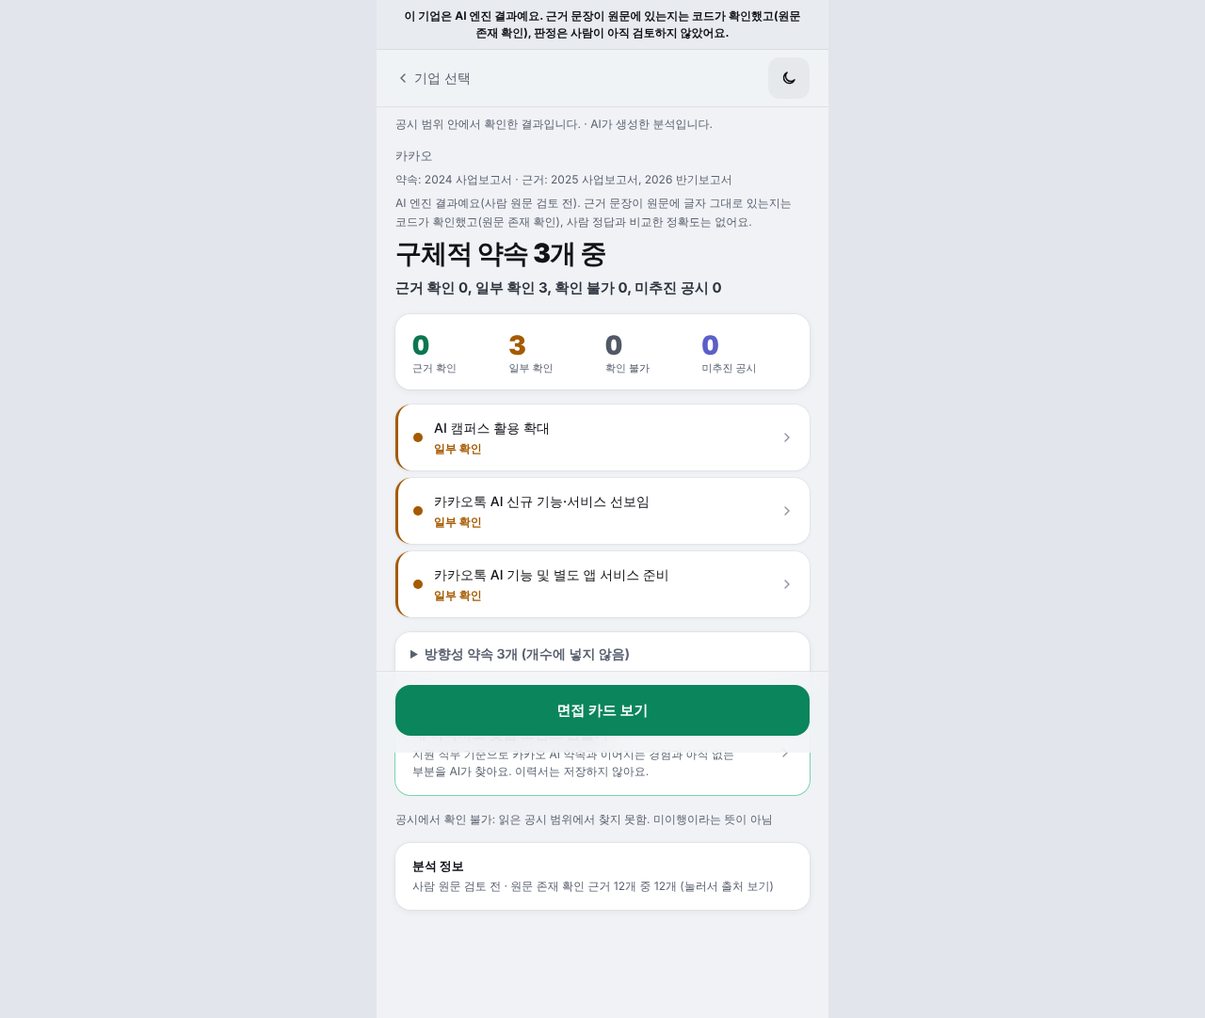
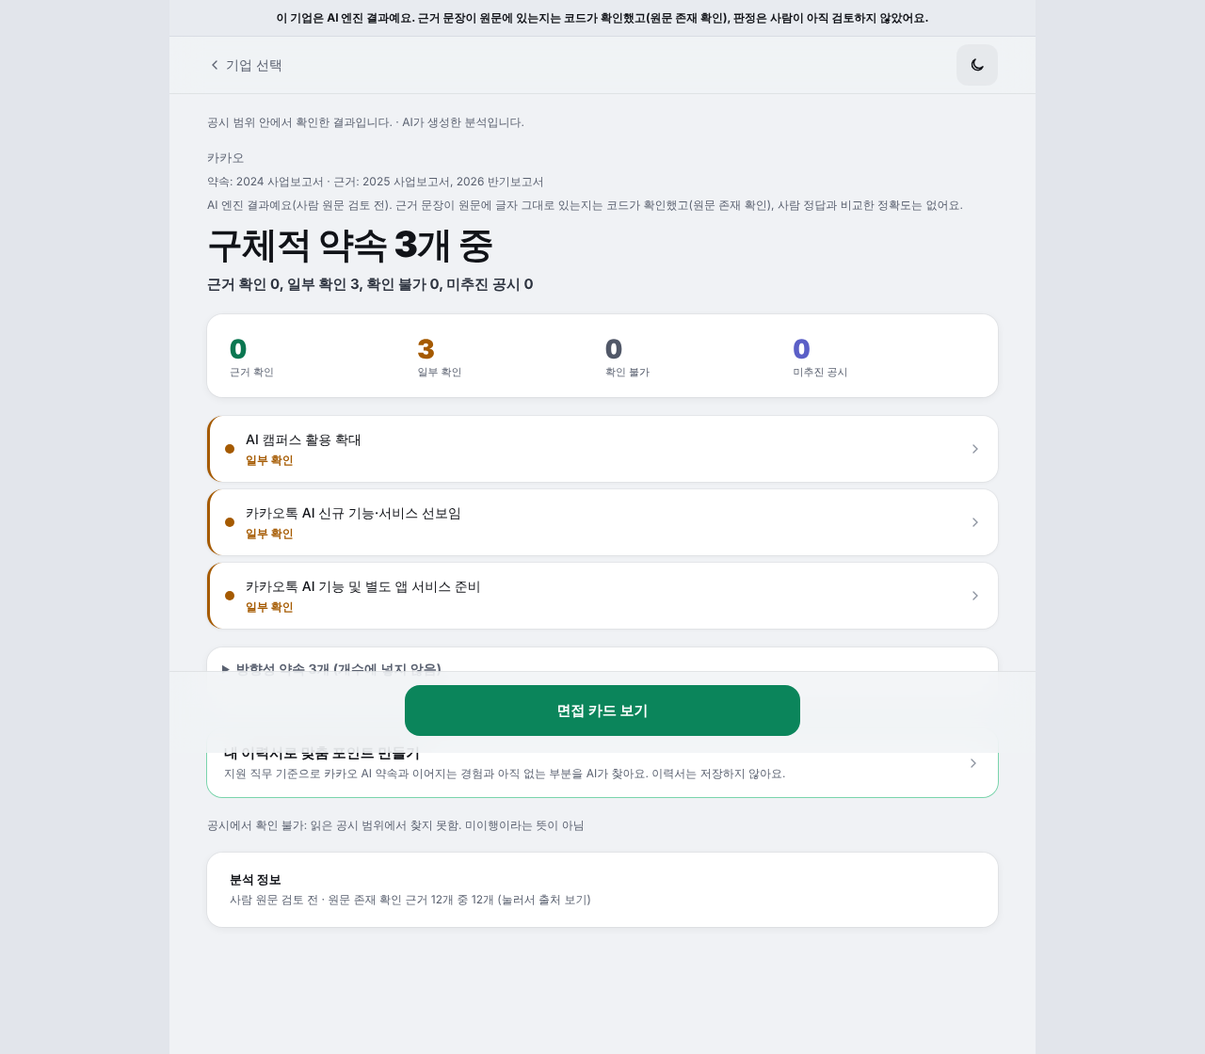
마지막 다듬기: PC 화면 넓게, README 한눈에 보기, 판정 설명·근거 점검, 발표 방향
- PC(1024px 이상)에서만 화면을 920px까지 넓히고 기업 목록을 두 줄로 (휴대폰 화면 6개는 바꾸기 전과 픽셀까지 같음)
- 사람 원문 검토 기업의 안내 문구를 "읽고 판정한"으로 통일
- README 맨 위: 한 문장 소개, 첫 화면 그림, 한눈에 보기, 결과 숫자, 작동 흐름, 심사용 읽는 순서, 문서 묶음
- 화면의 판정 15개 설명·근거 점검 기록 (docs/judgment-audit.md): 판정 이유 15/15, 근거 문장 원문 존재 확인 15/15,
  엔진의 "공시에서 확인 불가" 3개는 판정 모델이 받은 후보 문장까지 확인. 찾은 문제 1건(판정 이유의 내부 용어)은 후속 과제
- 예상 질문 Q13(검색 문제와 판정 문제 나누기), Q14(판정 이유 확인), 발표 방향(가장 강한 장면, 보여 줄 숫자, 남은 위험)
- PC 화면 캡처 다시 찍기 (docs/images/screens/)

Claude-Session: https://claude.ai/code/session_01BzNPn68M46ueTLKzppE7wq

diff --git a/팀/Final/app/css/style.css b/팀/Final/app/css/style.css
@@ -996,3 +996,26 @@ a.search-item:active { transform: scale(0.985); }
 .glossary-card > summary span { font-size: 13px; font-weight: 800; color: var(--text); }
 .glossary-card > summary small { font-size: 12px; line-height: 1.5; color: var(--sub); }
 .glossary-card[open] > summary { margin-bottom: 10px; }
+
+/* ---------- 20. PC 폭 (10/20): 1024px 이상에서만 넓게 써요. 휴대폰 화면(1023px 이하)은 그대로예요 ---------- */
+@media (min-width: 1024px) {
+  :root { --page-max: 920px; }
+  .sample-banner { padding: 10px 40px; }
+  .topbar { padding-left: 40px; padding-right: 40px; }
+  .content { padding: 20px 40px 48px; gap: 20px; }
+  .bottombar { padding-left: 40px; padding-right: 40px; }
+  .bottombar:not(.two) .btn { max-width: 420px; margin: 0 auto; }
+  .bottombar.two { grid-template-columns: repeat(2, minmax(0, 300px)); justify-content: center; }
+  .hero { padding-top: 28px; gap: 14px; }
+  .headline { font-size: 38px; }
+  .lead { font-size: 16px; max-width: 640px; }
+  .hero-stats { gap: 12px; }
+  .hero-stats > div { padding: 16px 18px; gap: 6px; }
+  .hero-stats strong { font-size: 28px; }
+  .hero-stats span { font-size: 12px; }
+  .company-list { display: grid; grid-template-columns: repeat(2, minmax(0, 1fr)); gap: 12px; }
+  .detail-title { font-size: 28px; }
+  .card:not(.pipeline-card) { padding: 20px 24px; }
+  .pipeline-card > summary { padding: 20px 24px; }
+  .pipeline-list { padding: 0 24px 10px; }
+}

diff --git a/팀/Final/docs/judgment-audit.md b/팀/Final/docs/judgment-audit.md
@@ -1,0 +1,66 @@
+# AI 판정 설명·근거 점검 (10/20)
+
+화면에 나온 판정 15개(구체적 약속)를 대상으로, 사용자가 판정 이유를 확인할 수 있는지와 근거가 DART 원문으로 이어지는지를 점검했습니다. 판정이 맞는지(정확도)를 사람이 다시 매긴 기록이 아닙니다. 사람이 원문을 읽고 판정을 확인한 것은 삼성전자·SK하이닉스 6개(사람 원문 검토 완료)이고, 카카오·현대자동차·신한지주 9개는 AI 엔진 결과(사람 원문 검토 전)입니다. 이 점검은 Claude가 결과 파일과 엔진 기록을 읽어 한 AI 보조 점검입니다.
+
+## 1. 화면에서 판정 이유를 확인하는 곳
+
+약속 상세 화면 하나가 "검증 카드" 역할을 합니다. 새 기능을 만들지 않고, 이미 있는 칸이 아래 질문에 모두 답하는지 확인했습니다.
+
+| 확인할 것 | 화면 위치 | 데이터 |
+| --- | --- | --- |
+| 기업이 무엇을 약속했나 | 01 "약속 · 2024 사업보고서": 원문 문장 그대로, 보고서·장·전자공시 쪽 | `promises[].sentence`, `source` |
+| 무엇이 실행 근거로 확인됐나 | 02 "근거 · 후속 공시": 근거 문장, "원문 존재 확인" 배지, 원문 보기 링크, 약속과 같은 말 형광 표시 | `evidence[]` |
+| 왜 이 판정인가 | 03 "판정": 판정 이름, 판정 뜻 한 줄, 판정 이유(확인된 부분과 확인되지 않은 부분) | `verdict`, `reason` |
+| 아직 실행 시기가 아닌가 | 약속한 시기가 근거를 찾은 범위(2026 반기보고서, 6월 말)보다 뒤면 "실행 시기 전" 안내 | 약속 문장의 시기 표현 (FB-03) |
+| 원문으로 직접 확인 | 화면 아래 DART 원문 버튼 2개(약속 보고서, 근거 보고서) | `source.url` |
+| 누가 확인했나 | 확인 4단계(처음에 접힘): 원문 존재 확인 N/M, 사람 원문 검토 완료/전 | 기업의 `data_mode` |
+
+## 2. 판정 15개 점검 결과
+
+| 기업 | 약속 | 판정 | 근거 문장 (원문 존재 확인 / DART 링크) | 판정 이유에 확인된 부분과 안 된 부분 | 검토 상태 |
+| --- | --- | --- | --- | --- | --- |
+| 삼성전자 | Galaxy AI 확장·고도화 및 다양한 폼팩터 적용 | 근거 확인 | 1개 (1/1, 1/1) | 약속 대상과 활동이 함께 확인된다고 적음 | 사람 원문 검토 완료 |
+| 삼성전자 | HBM4 개발·양산으로 AI 시장 경쟁력 강화 | 일부 확인 | 1개 (1/1, 1/1) | 있음 (HBM4 양산 출하 확인 / HBM3E 판매 확대 미확인) | 사람 원문 검토 완료 |
+| 삼성전자 | AI 서버용 고용량 DDR5·LPDDR5x 공급 확대 | 일부 확인 | 1개 (1/1, 1/1) | 있음 (고용량 제품 판매 확인 / 세부 용량·1b나노 확산 미확인) | 사람 원문 검토 완료 |
+| SK하이닉스 | SOCAMM·LPCAMM으로 AI 서버·PC 시장 대응 | 공시에서 확인 불가 | 없음 | 읽은 범위와 "미이행이라는 뜻이 아님"을 적음 | 사람 원문 검토 완료 |
+| SK하이닉스 | ZUFS 4.0 양산 및 온디바이스 AI 스마트폰 탑재 | 공시에서 확인 불가 | 없음 | 읽은 범위와 "미이행이라는 뜻이 아님"을 적음 | 사람 원문 검토 완료 |
+| SK하이닉스 | AI 데이터센터용 QLC 61TB Gen5 기술력 확보 | 일부 확인 | 1개 (1/1, 1/1) | 있음 (321단 QLC 개발·고객 인증 확인 / 61TB Gen5 제품 미확인) | 사람 원문 검토 완료 |
+| 카카오 | AI 캠퍼스 활용 확대 | 일부 확인 | 2개 (2/2, 2/2) | 있음 (그룹사 사용·운영 확인 / 활용 증가·홍보 실행 미확인) | AI 엔진 결과 |
+| 카카오 | 카카오톡 AI 신규 기능·서비스 선보임 | 일부 확인 | 1개 (1/1, 1/1) | 있음 (AI 서비스 출시·CBT 확인 / 관심사 지면·트래픽 확대 미확인) | AI 엔진 결과 |
+| 카카오 | 카카오톡 AI 기능 및 별도 앱 서비스 준비 | 일부 확인 | 3개 (3/3, 3/3) | 있음 (카카오톡 내 AI 서비스·오케스트레이션 연구 확인 / 서비스 적용·별도 앱 출시 미확인). 이유 첫머리에 엔진 내부 용어가 나옴 (4장) | AI 엔진 결과 |
+| 현대자동차 | AI 기반 SDV 체계 전환 | 일부 확인 | 2개 (2/2, 2/2) | 있음 (OTA·서비스 수익 모델·AI 엔진 확인 / 차량 데이터 활용·전 밸류체인 전환 미확인) | AI 엔진 결과 |
+| 현대자동차 | 차량 러닝 머신 개발 | 일부 확인 | 2개 (2/2, 2/2) | 있음 (학습형 모빌리티 생태계 관련 활동 확인 / 러닝 머신 개발 단계 불명확) | AI 엔진 결과 |
+| 현대자동차 | AI 기능 구현 ('26년 하반기 SDV 페이스 카) | 공시에서 확인 불가 | 없음 | 읽은 범위와 검색어를 바꿔 2번 더 찾았다고 적음. 화면에 "실행 시기 전" 표시 | AI 엔진 결과 |
+| 신한지주 | AI 활용 플랫폼 경쟁력 강화 | 일부 확인 | 1개 (1/1, 1/1) | 있음 (AI 투자정보 제공 확인 / 테크 기업 파트너십·고객 기반 확대 미확인) | AI 엔진 결과 |
+| 신한지주 | AI 해외 공시·뉴스 번역 서비스 제공 | 공시에서 확인 불가 | 없음 | 읽은 범위와 검색어를 바꿔 2번 더 찾았다고 적음 | AI 엔진 결과 |
+| 신한지주 | AI 활용 내부통제 모니터링 강화 | 공시에서 확인 불가 | 없음 | 읽은 범위와 검색어를 바꿔 2번 더 찾았다고 적음 | AI 엔진 결과 |
+
+요약:
+- 판정한 약속 15개 모두 판정 이유가 있고, 약속 문장의 DART 원문 링크가 있습니다 (15/15).
+- 판정에 쓴 근거 문장 15개는 모두 원문 존재 확인을 통과했고 DART 원문 링크가 있습니다 (15/15). 방향성 약속의 관련 활동 문장까지 합친 화면 전체 근거 26개도 모두 통과입니다.
+- "일부 확인" 9개는 모두 판정 이유에 확인된 부분과 확인되지 않은 부분을 함께 적었습니다. FB-07이 요청한 내용이 문장 안에는 이미 들어 있습니다.
+- "공시에서 확인 불가" 5개는 모두 읽은 공시 범위를 적었고, 화면의 판정 뜻 한 줄에 "미이행이라는 뜻이 아님"이 나옵니다.
+
+## 3. AI 엔진의 "공시에서 확인 불가" 3개: 검색이 무엇을 찾았나
+
+엔진 기록(`data/work/<기업>/llm_log.jsonl`의 판정 호출, `judged.json`의 `search_log`)에서, 판정 모델이 3번의 검색마다 받은 후보 문장을 읽었습니다.
+
+| 약속 | 판정 모델이 받은 후보 문장 | 점검 결과 |
+| --- | --- | --- |
+| 신한지주: AI 해외 공시·뉴스 번역 서비스 제공 | 번역·외신과 관련된 문장이 없었습니다. 비슷한 말은 해외거래소(NYSE) 상장 공시 문장 1개뿐이었습니다 | 검색한 범위에 관련 근거가 없었던 경우라 판정과 맞습니다 |
+| 신한지주: AI 활용 내부통제 모니터링 강화 | "AI 기반 리스크관리, 내부통제 솔루션도 구축하겠습니다"(2025 사업보고서, 2026 반기보고서)가 후보에 있었습니다 | 앞으로 하겠다는 계획 문장이라 실행 근거가 아닙니다. 판정기준 v2대로 근거로 쓰지 않은 것으로, 검색 실패가 아니라 판정 단계에서 올바르게 걸렀습니다 |
+| 현대자동차: AI 기능 구현 ('26년 하반기 SDV 페이스 카) | AI 엔진·자율주행 관련 문장은 있었지만 페이스 카나 차량용 고성능 컴퓨터 실증 문장은 없었습니다 | 약속 시기('26년 하반기)가 근거를 찾은 범위(2026 반기보고서)보다 뒤라 화면에 "실행 시기 전"이 붙습니다 |
+
+## 4. 찾은 문제와 후속 과제
+
+| 우선순위 | 문제 | 지금 한 일 | 후속 과제 |
+| --- | --- | --- | --- |
+| 1 | 카카오 "카카오톡 AI 기능 및 별도 앱 서비스 준비"의 판정 이유가 "후보 문장에는"으로 시작합니다. 엔진 내부 용어가 사용자 화면에 그대로 나온 것입니다 | 그대로 둠. 엔진 결과를 사람이 손으로 고치면 "AI 엔진 결과"라는 표시와 맞지 않습니다. 판정과 근거 문장은 이 문제와 관계없습니다 | 판정 지시문에 "후보 문장"처럼 내부 용어를 쓰지 말라는 규칙을 넣고 다시 실행 |
+| 2 | 판정 이유를 "확인된 부분 / 확인되지 않은 부분" 두 칸으로 나눠 보여 주기 (FB-07) | 이유 문장에는 두 부분이 이미 함께 있습니다 (일부 확인 9개 모두) | 칸을 나누려면 판정 결과 형식을 바꿔야 해서, 판정기준을 고정한 이번 제출에서는 하지 않음 |
+| 3 | AI 엔진 9개 판정의 정확도 | 이 문서는 설명과 근거 연결만 점검했습니다 | 사람 원문 검토로 정답을 만들어 비교. 지금 정확도 기록은 SK하이닉스 시범 평가(n=3)뿐입니다 (`eval/results/skhynix_runs.md`) |
+
+## 5. 다시 해 보는 방법
+
+1. `app/data/results.json`에서 `type`이 `specific`인 약속의 `verdict`, `reason`, `evidence[].citation_verified`, `evidence[].source.url`, `source.url`을 셉니다.
+2. AI 엔진 기업은 `data/work/<기업>/llm_log.jsonl`에서 `task`가 `judge`인 줄을 찾아, 판정 모델이 받은 후보 문장을 읽습니다. 후보 문장 번호는 `data/work/<기업>/judged.json`의 `search_log`에 있습니다.
+3. 화면은 운영 사이트의 약속 상세(`#/c/<기업>/p/<약속 번호>`)에서 01 약속, 02 근거, 03 판정, 원문 버튼, 접힌 확인 4단계를 차례로 엽니다.

diff --git a/팀/Final/docs/progress-log.md b/팀/Final/docs/progress-log.md
@@ -28,6 +28,7 @@ AI Promise를 만든 과정을 날짜순으로 정리합니다. 시각은 한국
 | 10/19 | 드라이브 공통 폴더에 발표자료·3분 영상용 `1020_발표자료_영상` 폴더(23:21)를 만들고 README 14장과 결과보고서 초안에 링크. 문서에 남아 있던 처음 시연 기업 목록(카카오, 신한은행, NAVER)을 지금 화면(카카오, 현대자동차, 신한지주)에 맞게 고치고, 심사 예상 질문에 시범 평가(Q11) 추가 | PR #40 |
 | 10/20 | 사용자 의견 반영 5건(PR #41): 첫 화면 사용 순서 안내(FB-01), 약속과 근거에 함께 나오는 말 형광 표시(FB-02), 약속한 시기가 근거 범위보다 뒤인 약속에 "실행 시기 전" 표시(FB-03), 이력서 분석 중 진행 막대와 경과 시간(FB-04), 약속에 나온 용어 풀이와 판정 뜻 한 줄(FB-05). 10/19 23:58까지 설문 응답 12명(개선 의견 6건 중 4건이 "이해하기 어렵다"는 같은 방향)과 설문 밖 후기 2건을 근거로 골랐고, 직무별 분류와 판정 이유 나누기(FB-06, FB-07)는 후속 과제로. 김성태가 전달한 사용자 테스트 분석 보고서를 숫자를 원자료와 대조한 뒤 저장소에 옮기고 반영 현황을 붙임. 02:00 운영 사이트의 이력서 기능을 실제 모델로 다시 점검(2번 모두 정상)하고, 발표용 고치기 전·후 화면 5장과 결과 차트를 만듦. 02:11 고친 화면을 본 후기 1건을 기록(용어 풀이·보완점 좋음, 이력서 연결 문장 개선은 FB-08 후속 과제) | PR #41, `docs/feedback-log.md`, `docs/user-test-report.md`, `docs/images/feedback/` |
 | 10/20 | v2(PR #46): 고친 화면이 배포된 뒤 받은 의견 반영. 이력서 연결을 지원 직무 기준으로 바꿈(지원 직무 선택, 경험 → 지원 직무 역량 → 회사 AI 약속, 직접/간접 연결과 한계 문장, 내 이력서에 없는 부분과 면접 전에 준비할 것, FB-08). 설문 2명(02:17, 02:25)이 글자 양을 말해 용어 칸, 확인 4단계, 분석 정보를 처음에 접어 둠(FB-09). 원문 존재 확인(코드)과 사람 원문 검토를 화면과 문서에서 다른 이름으로 나누고 기업 화면에 분석 정보 카드를 더함. 운영 사이트는 결과 파일을 못 읽어도 예시 데이터로 바꾸지 않게 하고 `meta.is_sample`을 false로 정리. SK하이닉스 평가 표현을 "3개 항목 × 3회 반복실행, 1회차 2/3, 2회차 3/3, 3회차 2/3"로 통일(78% 같은 정확도로 쓰지 않음). 아키텍처 문서를 OpenDART 자동 수집과 GitHub Actions 기준으로 다시 쓰고, 팀 기여 문서의 SK하이닉스 "독립 판정"을 공동 검토로 고침. PR #45(김성태 계정, 같은 후기 정리)의 본문을 합침. 03:14 합치고 03:15 운영 배포, 03:16 운영 사이트 이력서 기능을 실제 모델로 점검(삼성전자 직무 "기술사업화", SK하이닉스 직무 없음, 2번 모두 정상). FB-08·FB-09 고치기 전·후 화면과 v2 최종 화면 캡처 6장을 만듦 | PR #46, `smoke-results/39300958868`, `smoke-results/39300967745`, `docs/feedback-log.md`, `docs/architecture.md` |
+| 10/20 | 제출 전 마지막 다듬기: PC(1024px 이상)에서 화면을 920px까지 넓히고 기업 목록을 두 줄로(휴대폰 화면 6개는 이전과 픽셀까지 같음), 사람 원문 검토 기업의 안내 문구를 "읽고 판정한"으로 통일, README 맨 위에 한눈에 보기·결과 숫자·작동 흐름·심사용 읽는 순서와 문서 묶음, 발표 방향(가장 강한 장면은 FB-08 고치기 전·후, 보여 줄 숫자, 남은 위험), 예상 질문 Q13(검색 문제와 판정 문제를 나누는 법)·Q14(판정 이유 확인), 화면 판정 15개의 설명·근거 점검(`docs/judgment-audit.md`, AI 보조 점검), PC 화면 캡처 다시 찍기 | `app/css/style.css` 20장, README, `docs/presentation-outline.md`, `docs/judge-qa.md` |
 
 ## 2. 앞으로 할 일 (10/19 기준, 순서대로)
 

diff --git a/팀/Final/docs/presentation-outline.md b/팀/Final/docs/presentation-outline.md
@@ -1,5 +1,35 @@
 # 최종 발표 구성안
 
+## 0. 발표 방향 (10/20 확정)
+
+**한 문장 소개**: "기업이 실제로 무엇을 중요하게 말하고 있는지 공시에서 찾고, 그 전략을 내 직무와 경험에 연결해 면접 준비까지 도와주는 서비스입니다." (영어로 한 줄이 필요하면: Evidence-based Interview Intelligence)
+
+**가장 강한 한 장: 기능보다 변화**. FB-08 고치기 전·후(`docs/images/feedback/fb08-resume-role.png`)를 기술 구조 슬라이드보다 앞에 둡니다.
+- 고치기 전: 재무 분석·기술사업화 경험 → "갤럭시 확장·고도화에 활용할 수 있습니다"
+- 사용자 의견: "실무라면 재무·실사·전략팀 업무일 텐데 갤럭시와 바로 잇는 것은 어색하다"
+- 고친 뒤: 경험 → 지원 직무 역량 → 회사 AI 전략. 결과는 직접 연결 / 간접 연결(한계 문장) / 경험 공백과 준비할 것
+
+**발표에서 보여 줄 숫자 (이것만)**
+
+| 구분 | 숫자 |
+|---|---|
+| 제품 | 5개 기업, AI 약속 24개, OpenDART 자동 수집과 분석 |
+| 사용자 | 실제 사용자 설문 14명. 고치기 전 12명 기준 이해도 4.50, 신뢰도 4.58, 면접 활용 의향 4.67 (5점 만점), 이력서 기능 12/12명 사용 |
+| 개선 | 사용자 피드백 7건 실제 반영 (PR #41, PR #46) |
+| AI 평가 | SK하이닉스 약속 3개를 같은 엔진으로 3회: 1회차 2/3 → 2회차 3/3 → 3회차 2/3 (정확도라고 부르지 않음) |
+
+**제품 흐름**: 기업 검색 → AI 약속 → 후속 공시 근거 → 원문 존재 확인 → DART 원문 → 사람 원문 검토 여부 → 지원 직무 선택 → 이력서 → 직접/간접 연결 → 경험 공백 → 면접 포인트 → 역질문
+
+**준비 순서**: 발표자료 > 데모 > 예상 질문 > 추가 사람 평가. 저장소는 10/20 07:00에 v2를 최종 기준선으로 고정했고, 그 뒤에는 기능을 바꾸지 않습니다.
+
+**남은 위험과 말하는 법**
+
+| 위험 | 대응 |
+|---|---|
+| 발표자료·3분 영상 | 10/20 제작. 재료(고치기 전·후 이미지 7장, PC 화면 캡처 6장, 결과 차트)는 `docs/images/`와 드라이브 `1020_발표자료_영상`에 있음 |
+| 고친 v2 화면을 본 설문이 2명 | 개선 효과를 숫자로 주장하지 않음. 제출 뒤 3~5명 추가 검증은 다음 단계로 말함 |
+| AI 판정 사람 평가가 n=3 | 숨기지 않고 시범 평가로 말함. QLC 61TB 사례로 검색은 안정, 판정 경계가 흔들렸다는 실패 분석을 보여 줌 (`docs/judge-qa.md` Q13) |
+
 ## 1. 문제 (20초)
 "취업 준비자가 기업의 AI 전략을 제대로 확인하려면 수백 쪽의 사업보고서를 여러 연도에 걸쳐 직접 비교해야 합니다."
 

diff --git a/팀/Final/docs/requirements.md b/팀/Final/docs/requirements.md
@@ -89,7 +89,7 @@ AI Promise의 기능 요구사항, 비기능 요구사항, AI 활용 방식, 시
 | NFR-06 | AI 생성 고지 | 모든 화면에 AI가 생성한 분석이라는 문구를 표시합니다 | FR-05 (`app/js/app.js`가 화면 6곳에 표시). `tests/ui_check.py`는 안내 문구 칸이 있는지와 글자 크기를 검사합니다 |
 | NFR-07 | 개인정보 | 사용자 테스트 참여자의 이름, 전화번호, 이메일을 저장하지 않고 번호로만 기록합니다(설문은 P01, 기록지는 1처럼). 참여 전에 동의를 받습니다. 내 경험 연결(FR-33)의 이력서는 저장하지 않고 로그에도 남기지 않으며, 화면에서 이름·연락처·주소·생년월일을 빼고 넣도록 먼저 안내합니다 | `docs/user-test-protocol.md`, 설문 설정(FR-32), `.gitignore` |
 | NFR-08 | 보안 | API 키는 `engine/.env`에만 두고 저장소, 공유 폴더, 단톡방에 올리지 않습니다 | `.gitignore`, `engine/.env.example` |
-| NFR-09 | 접근성 | 글자 대비는 작은 글자 4.5:1, 큰 글자 3:1 이상(WCAG AA)이고, 390px·320px 폭에서 가로로 밀리지 않으며, 다크·라이트 두 테마에서 모두 지킵니다 | `tests/ui_check.py` (CI `ui` 작업) |
+| NFR-09 | 접근성 | 글자 대비는 작은 글자 4.5:1, 큰 글자 3:1 이상(WCAG AA)이고, 390px·320px 폭에서 가로로 밀리지 않으며, 다크·라이트 두 테마에서 모두 지킵니다. PC(1024px 이상)에서는 화면을 920px까지 넓혀 기업 목록을 두 줄로 보여 주고, 휴대폰 화면은 바꾸지 않습니다(10/20) | `tests/ui_check.py` (CI `ui` 작업) |
 | NFR-10 | 재현성 | temperature 0(같은 입력에 최대한 같은 답), 모델과 설정은 `engine/config.yaml`에 고정, 판정기준 v2를 10/15에 동결, LLM 호출 기록을 남깁니다 | `engine/config.yaml`, FR-21 |
 | NFR-11 | 품질 관문 | main에 합치기 전에 `tests/test_config.py`(엔진 설정 모양), `tests/test_mock.py`, `tests/test_ui_static.py`, `tests/ui_check.py`를 통과해야 합니다(팀 규칙). CI의 `validate`와 `ui` 작업이 Pull Request와 main에 올릴 때 자동으로 돌립니다. main 보호 설정은 없어서 규칙으로 지킵니다 | README 6장, `.github/workflows/ci.yml` |
 | NFR-12 | 배포 | 외부에서 접속할 수 있는 공개 주소로 배포하고, main에 올리면 자동으로 다시 배포됩니다 | https://ai-promise-six.vercel.app, `docs/deploy.md` |

diff --git a/팀/Final/docs/release-checklist.md b/팀/Final/docs/release-checklist.md
@@ -32,6 +32,7 @@
 - [x] 원문 존재 확인(코드)과 사람 원문 검토를 화면과 문서에서 다른 이름으로 쓴다 (배지, 분석 정보, 확인 4단계 요약 줄, `docs/architecture.md`)
 - [x] 용어 칸, 확인 4단계, 분석 정보는 처음에 접혀 있고 접힌 줄에 상태가 보인다 (FB-09, `tests/ui_check.py`는 펼쳐서 검사)
 - [x] v2 배포 뒤 운영 사이트 이력서 기능 점검 (GitHub Actions `Resume fit smoke test`, 10/20 03:16): 삼성전자 직무 "기술사업화"·SK하이닉스 직무 없음 두 번 모두 응답 200, gpt-6.1-sol, 간접 연결 한계 문장 3/3, 보완점 준비할 것 5/5, 빠진 항목 0 (`smoke-results/39300958868`, `smoke-results/39300967745`)
+- [x] PC(1024px 이상)에서 화면을 넓게 쓰고, 휴대폰 화면은 그대로 (휴대폰 390px 화면 6개를 바꾸기 전과 픽셀 단위로 비교해 모두 같음, `tests/ui_check.py` 1280px 검사 통과)
 - [x] v2 운영 배포 확인 (PR #46 합친 커밋 24a7950, Vercel Production 03:15 완료. 운영 `results.json`의 `is_sample: false`, `data_status: "real"`, 원문 존재 확인 문구, 화면 코드의 v2 문구를 직접 읽어 확인)
 
 ## P2: 시간이 남으면

diff --git a/팀/Final/app/README.md b/팀/Final/app/README.md
@@ -49,6 +49,7 @@
 | 기업 화면 아래 "분석 정보" 카드(데이터 출처, 기준 보고서, 분석 기준일, 분석 방식, 두 가지 확인 상태) | 데이터가 어디서 왔고 누가 확인했는지 한곳에서 보이게 |
 | 용어 칸, 확인 4단계, 분석 정보는 처음에 접어 두고 접힌 줄에 상태만 보임 | 고친 화면을 본 설문 2명의 "글자가 너무 많음", "핵심이 한눈에 들어오지 않음" (FB-09) |
 | 내 경험 연결에 지원 직무 선택, 직접 연결과 간접 연결(한계 문장), 내 이력서에 없는 부분과 면접 전에 준비할 것 | 이력서 연결이 직무보다 제품 약속에 억지로 이어진다는 후기 (FB-08) |
+| PC(1024px 이상)에서만 화면을 920px까지 넓히고 기업 목록을 두 줄로 (`css/style.css` 20장) | 노트북과 발표 화면에서 휴대폰 폭으로 좁게 보이던 것을 고침. 휴대폰 화면은 그대로 |
 
 ## 1. 여는 법
 

diff --git a/팀/Final/docs/executive-summary.md b/팀/Final/docs/executive-summary.md
@@ -1,7 +1,7 @@
 # AI Promise: Executive Summary
 
 ## 한 줄
-기업이 과거 공시에서 밝힌 AI 계획과 이후 실행 근거를 연결해, 취업·이직 준비자가 5분 안에 기업의 AI 전략을 원문 근거와 함께 확인하도록 돕는 서비스.
+기업이 실제로 무엇을 중요하게 말하고 있는지 공시에서 찾고, 그 전략을 내 지원 직무와 경험에 연결해 면접 준비까지 돕는 서비스. 과거 공시의 AI 계획과 이후 실행 근거를 원문과 함께 연결합니다 (Evidence-based Interview Intelligence).
 
 ## 문제
 - 기업 조사에는 여러 연도의 수백 쪽 공시를 읽고 비교해야 함
